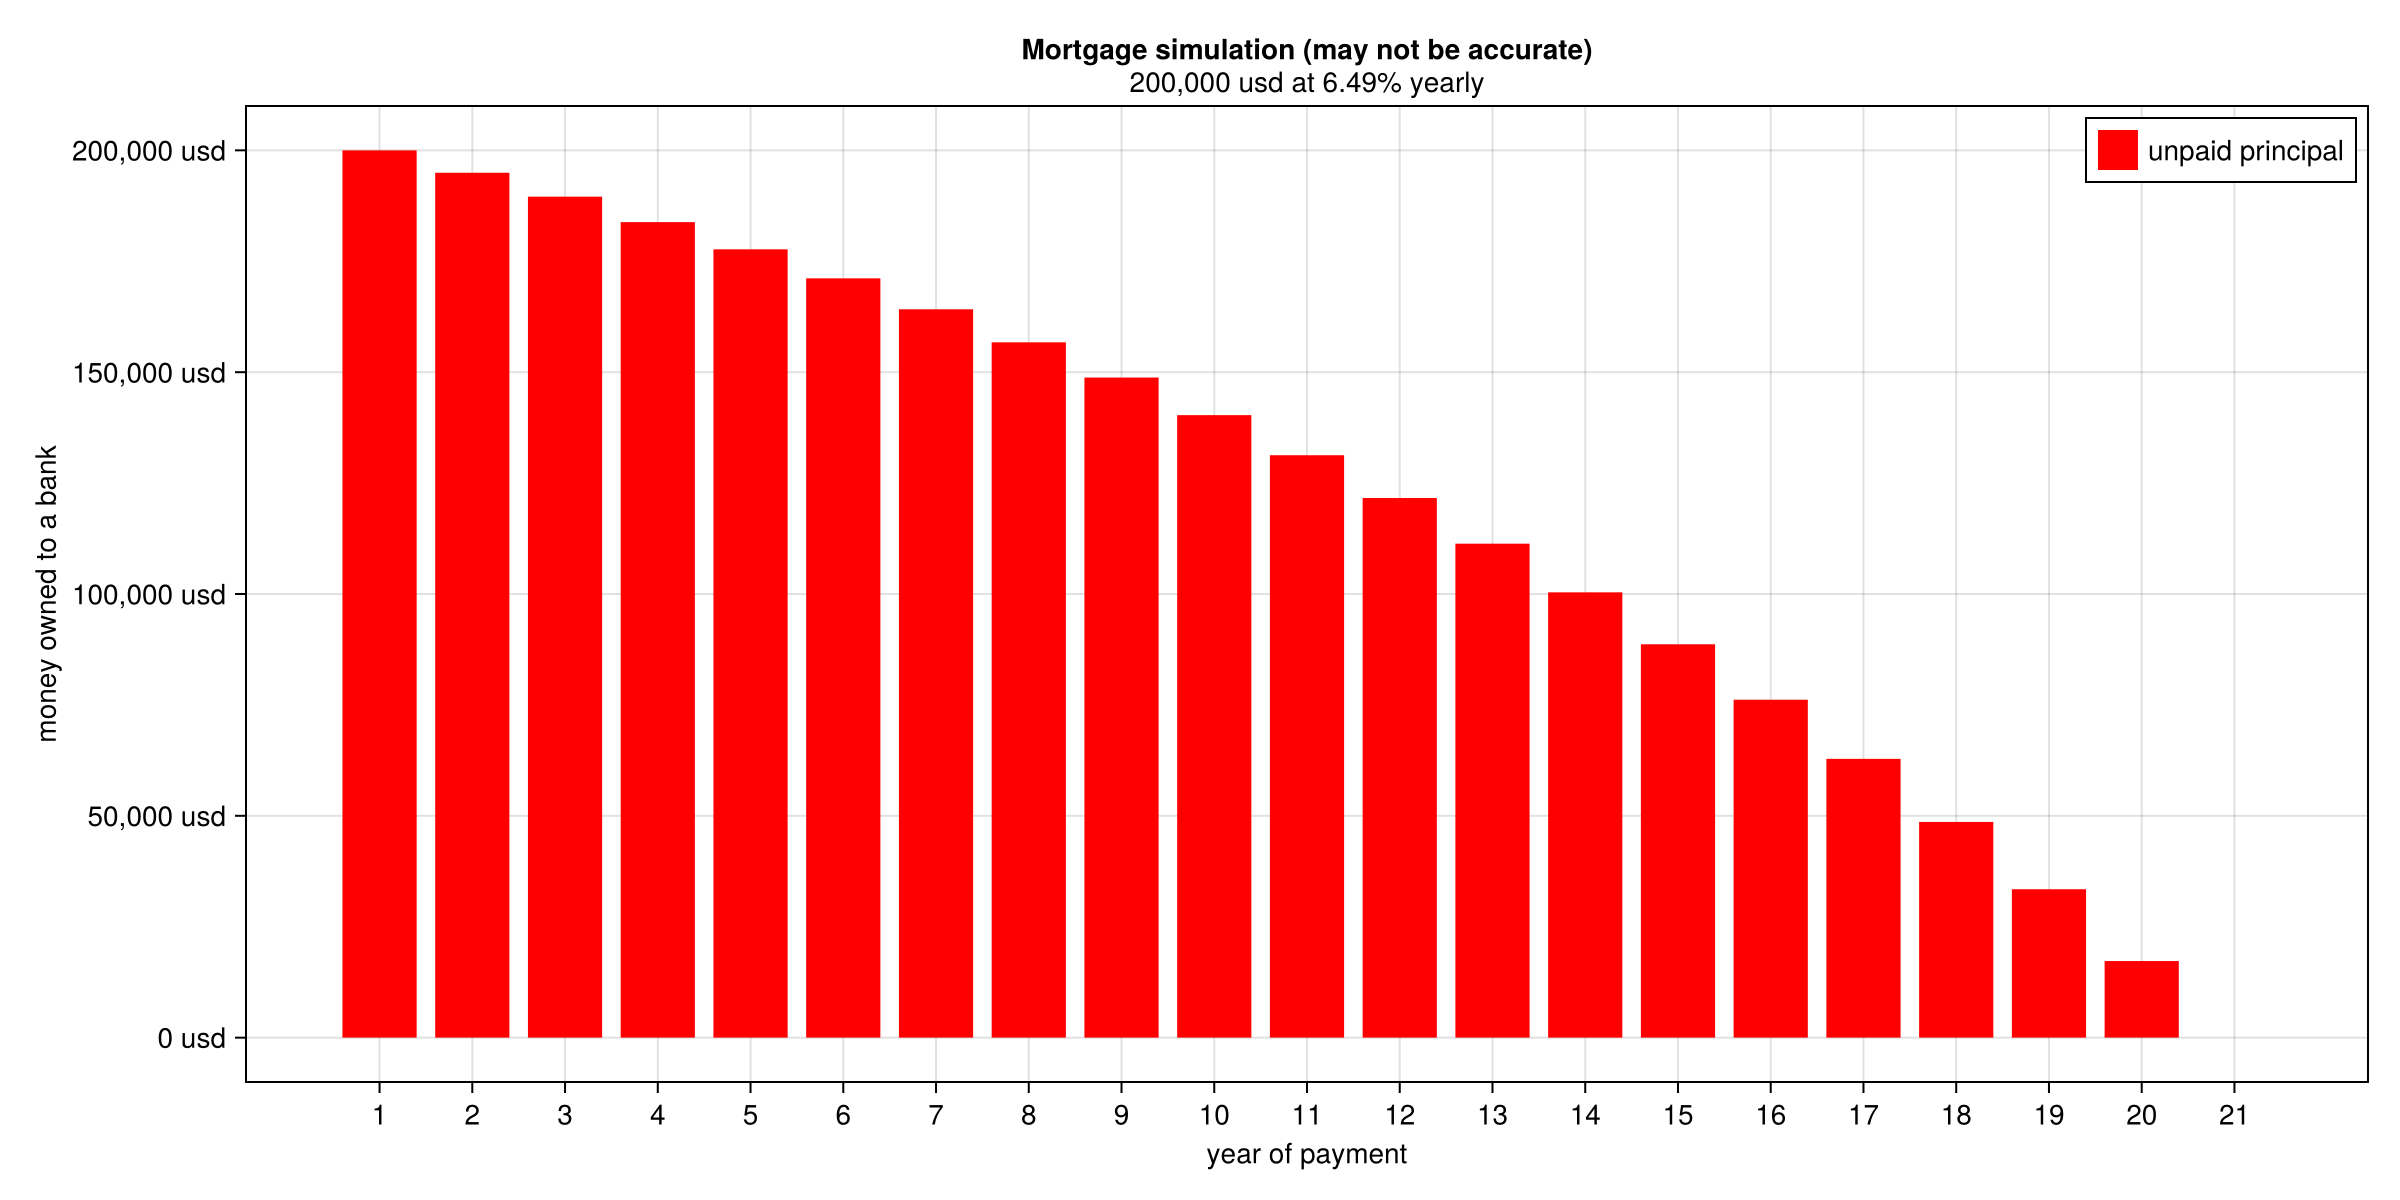
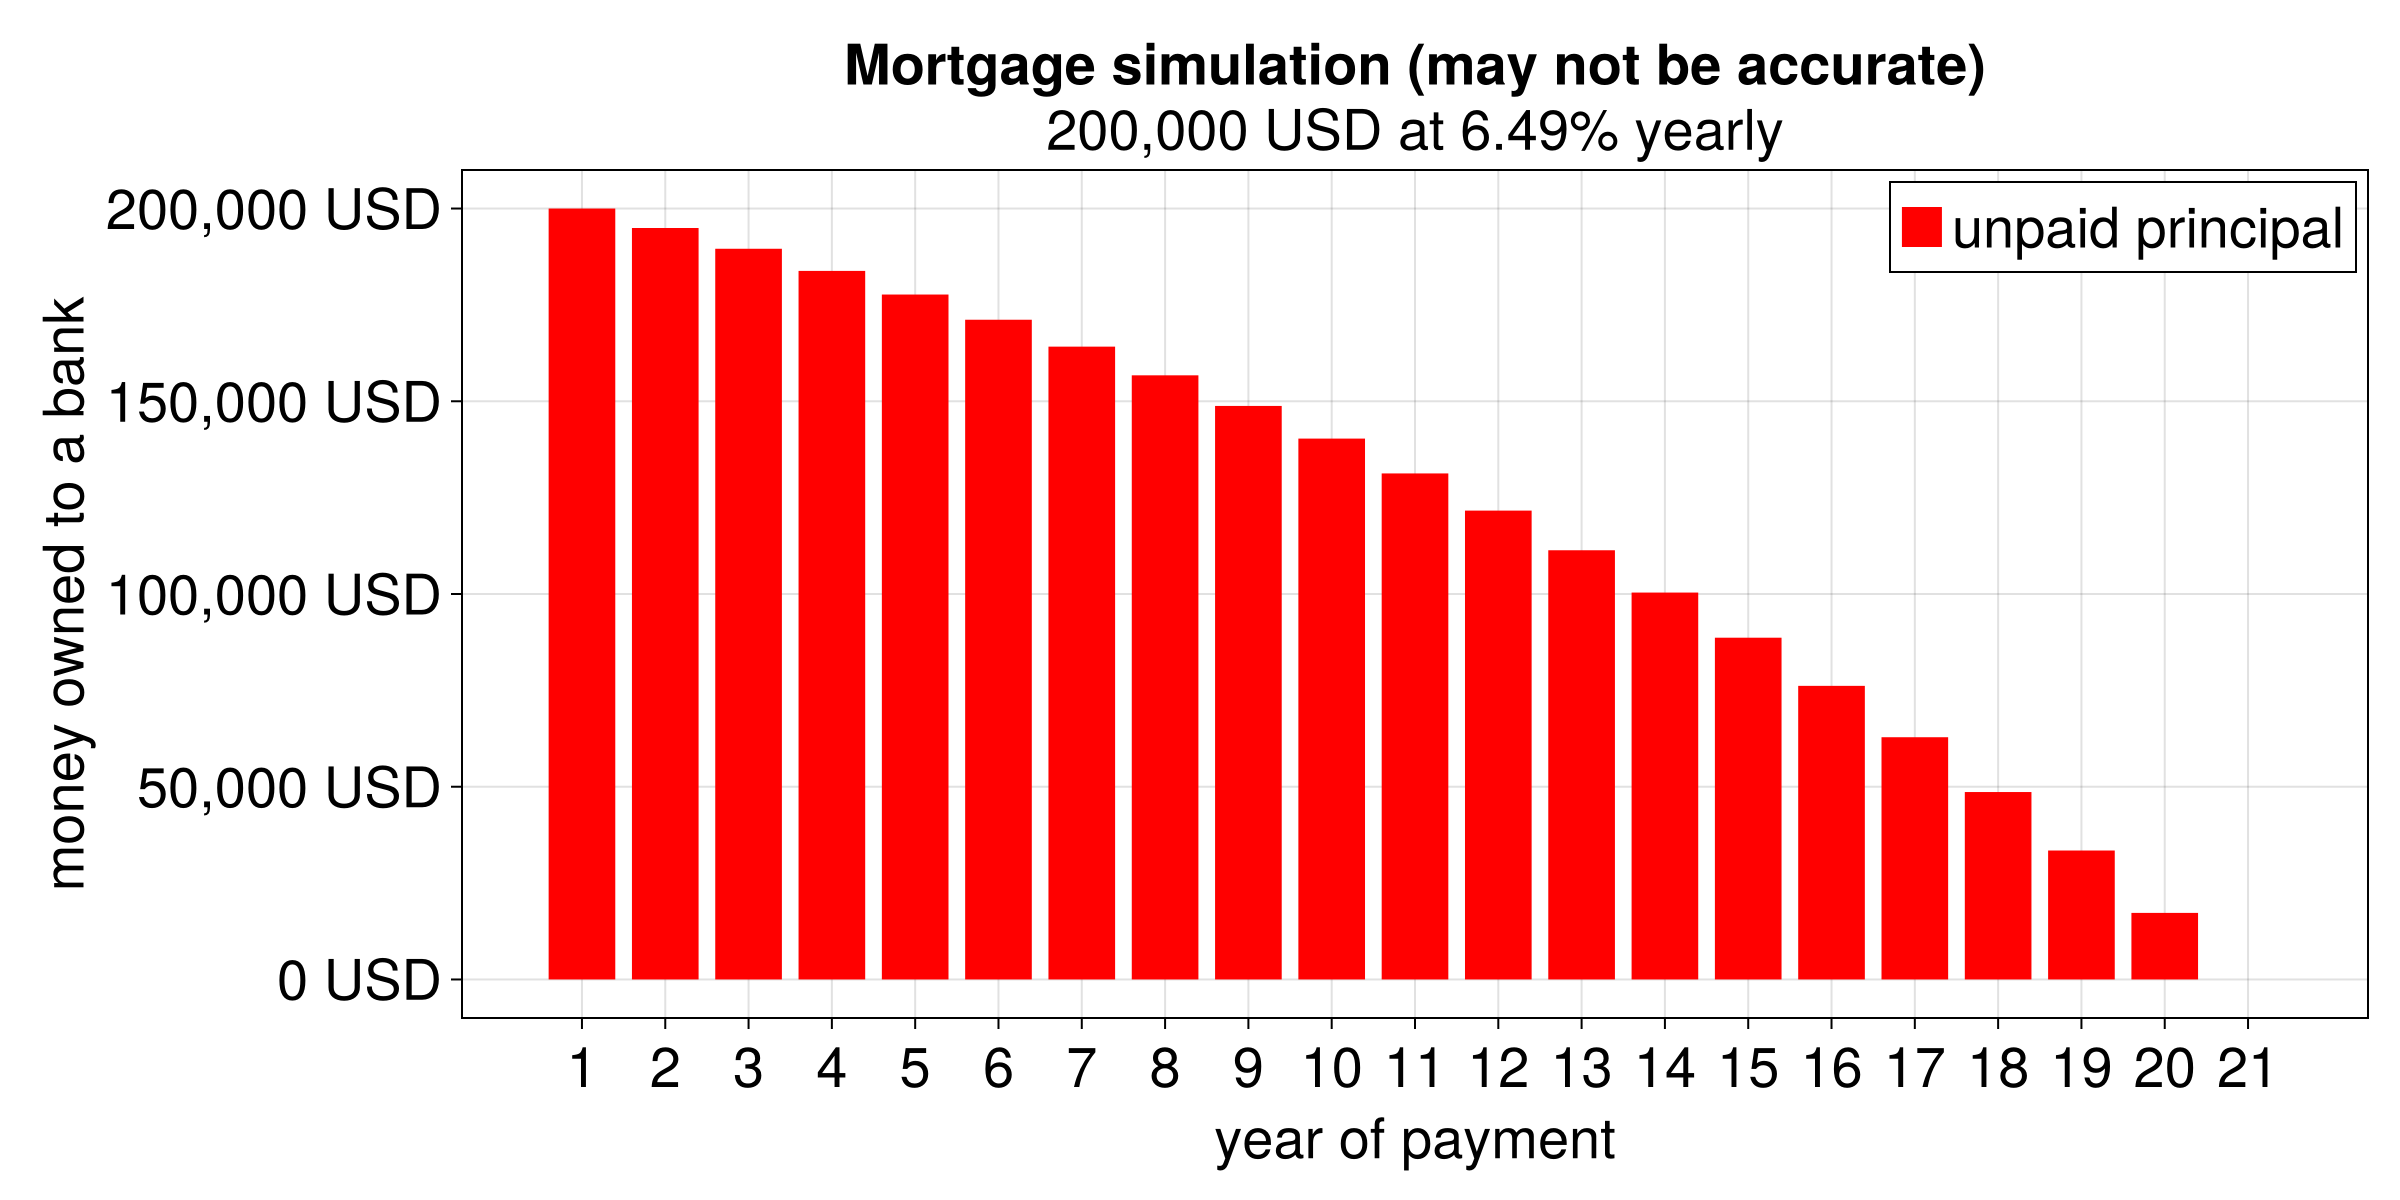
cosmetic changes

diff --git a/contents/compound_interest.md b/contents/compound_interest.md
@@ -64,7 +64,7 @@ function getFormattedMoney(money::Real, sep::Char=',')::Str
         result = digit * result
         counter += 1
     end
-    return result * " usd"
+    return result * " USD"
 end
 """
 sc(s)
@@ -81,7 +81,7 @@ direction (from right to left) thanks to the `reverse(amount)`. Every third
 digit (`if counter == 3`) we place our `sep` to the `result` and count to three
 a new (`counter = 0`). Besides, we prepend our `digit` to the `result`
 (`digit * result`) and increase the counter (`counter +=1`). In the end we
-return the formatted number (`result * " usd"`).
+return the formatted number (`result * " USD"`).
 
 Let's see how it works.
 

diff --git a/contents/mortgage.md b/contents/mortgage.md
@@ -27,7 +27,7 @@ Write a Julia program that will tell you:
    case?
 3. After how many years your debt will be $\le$ $100'000?
 4. Which of the two mortgages is more worth it for you (the smaller total cost
-   and interest you pay to the bank)?
+   and total interest you pay to the bank)?
 
 Feel free to add some visual flair to your solution.
 
@@ -62,7 +62,7 @@ function fmt(money::Real, sep::Char=',',)::Str
         result = digit * result
         counter += 1
     end
-    return result * " usd"
+    return result * " USD"
 end
 """
 sc(s)
